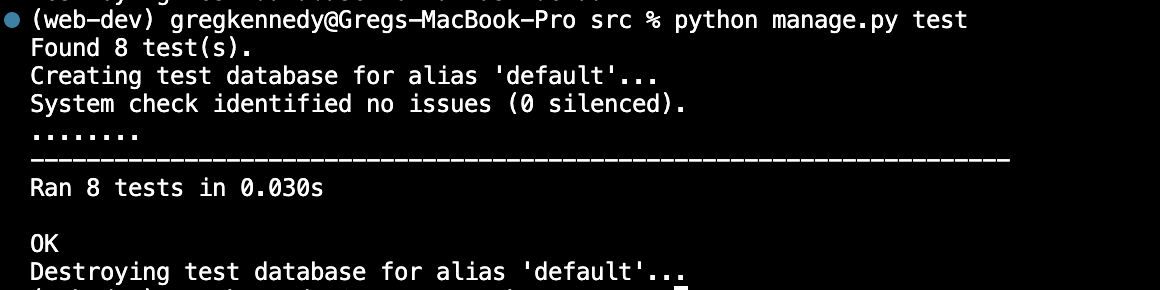
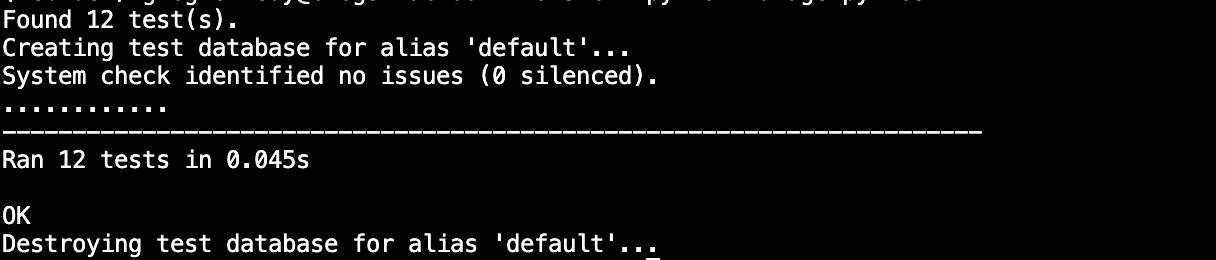
2.5

Changed region(s): [[0.0, 0.0, 0.8379, 0.4308], [0.0, 0.4615, 0.869, 0.6769], [0.0, 0.7692, 0.6207, 1.0]]

diff --git a/Achievement2/Exercise_2.5/README.md b/Achievement2/Exercise_2.5/README.md
@@ -1,0 +1,23 @@
+# Exercise 2.5
+
+## Step 1: Update models if needed
+
+## Step 2: Add Records of Recipes
+
+## Step 3: Create a Welcome page
+
+<img src="2.5img/welcome.png" width="300px">
+
+## Step 4: Generate a Recipe List
+
+<img src="2.5img/recipes-overview.png" width="300px">
+
+## Step 5: Add Recipe Details
+
+<img src="2.5img/recipe1.png" width="300px">
+
+<img src="2.5img/recipe2.png" width="300px">
+
+## Step 6: Create/Run Tests 
+
+<img src="2.5img/2.5Tests.png" width="300px">
